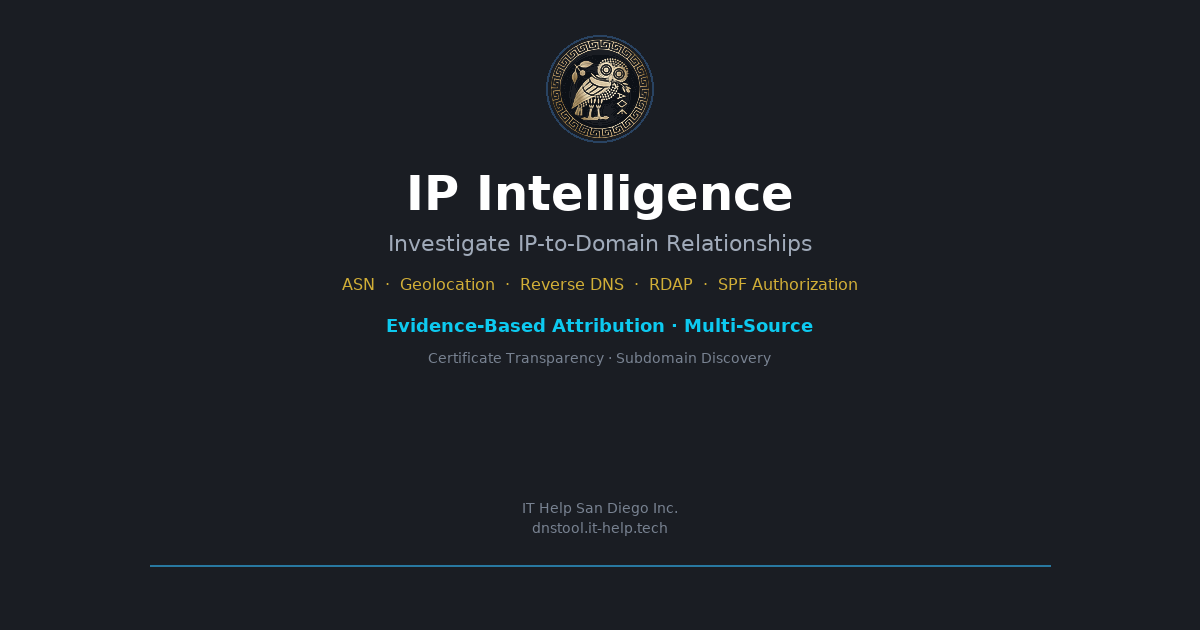
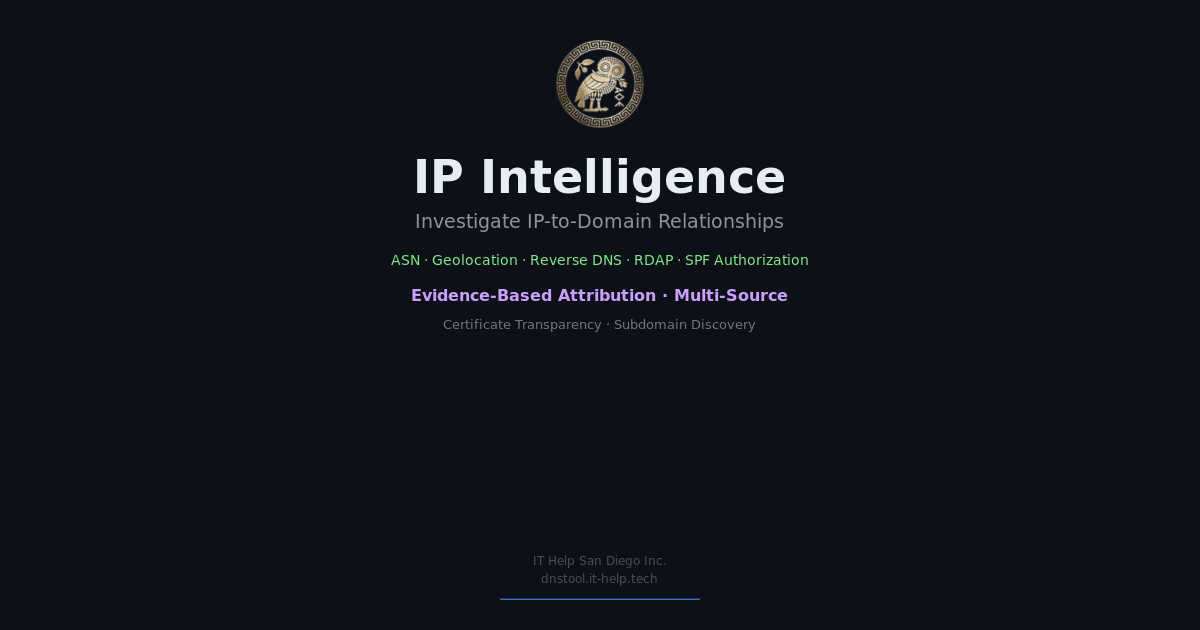
Update version and regenerate all domain analysis images
Update project version to 26.28.44 and regenerate all 6 OG images using a new script.

Replit-Commit-Author: Agent
Replit-Commit-Session-Id: 09e0984f-2819-4cbd-8d7b-819c231c76e0
Replit-Commit-Checkpoint-Type: full_checkpoint
Replit-Commit-Event-Id: 1d60ceb8-1876-4db9-b4e2-e74ba29e5422
Replit-Commit-Screenshot-Url: https://storage.googleapis.com/screenshot-production-us-central1/f2c73519-b3f3-4c33-90b1-699f833acae8/09e0984f-2819-4cbd-8d7b-819c231c76e0/udghlSR
Replit-Helium-Checkpoint-Created: true

diff --git a/go-server/internal/config/config.go b/go-server/internal/config/config.go
@@ -9,7 +9,7 @@ import (
 )
 
 var (
-        Version   = "26.28.43"
+        Version   = "26.28.44"
         GitCommit = "dev"
         BuildTime = "unknown"
 )
